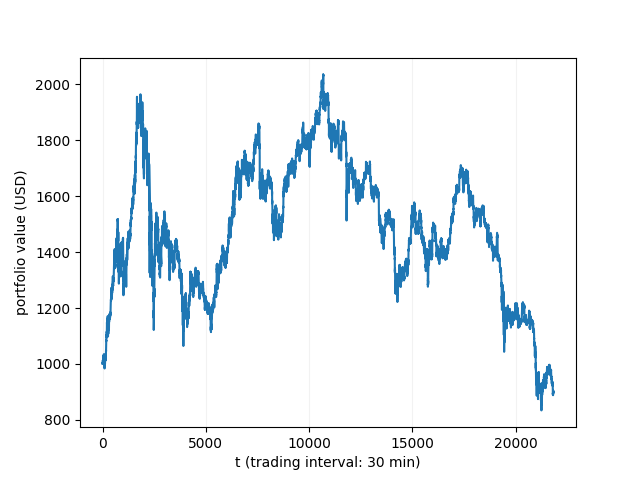
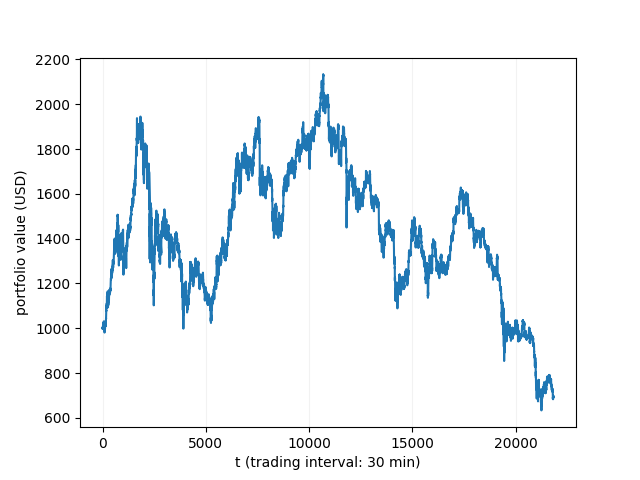
Updated training script

diff --git a/src/DPG.py b/src/DPG.py
@@ -3,7 +3,7 @@ import numpy as np
 from src.network import NetworkCNN
 import matplotlib.pyplot as plt
 
-
+# device = torch.device('cuda' if torch.cuda.is_available() else 'cpu')
 
 class DPG(object):
 	"""
@@ -22,7 +22,8 @@ class DPG(object):
 
 		self.pvm = PVM(self.total_timeStep, self.coin_num) # Replay buffer
 		self.NNmodel = NetworkCNN(feature_number=self.feature_num, num_currencies=self.coin_num, window_size=self.window_size )
-		self.NNmodel = self.NNmodel.to(torch.double) 
+		self.NNmodel = self.NNmodel.to(torch.double)
+		# self.NNmodel = self.NNmodel.to(device)
 		self.optimizer = torch.optim.Adam(self.NNmodel.parameters())
 
 		self.beta = config["hyperparams"]["beta"] # = probability-decaying rate determining the shape of the probability distribution for sampling tb for training NN
@@ -45,9 +46,11 @@ class DPG(object):
 
 			# Because X size is window_size --> 50
 			if t >= self.window_size:
+				self.NNmodel.eval()
 				# Get a batch price data at time step t, take portfolio vector from replay buffer, and do forward pass
 				X = self.get_X(t)
 				w = self.pvm.get_previous_w(t)
+				# X, w = X.to(device), w.to(device)
 				
 				w_out = self.take_action(X, w[:, 1:, :]) # w.shape: (1, currency, 1). Excluding cash currency
 
@@ -62,10 +65,13 @@ class DPG(object):
 				self.store_cumPortVal(t)
 			
 			# Start training after ... time steps (after portvolio vector memory filled), and update neural network every ... time step freq
-			# if t >= self.config["hyperparams"]["train_start"] and t % self.config["hyperparams"]["train_freq"] == 0 :
-			# # Learning one step using batch of data from replay buffer.
-			#     train_batch = self.get_sample_batch(t)
-			#     self.update_step(train_batch)
+			if t >= self.config["hyperparams"]["train_start"] and t % self.config["hyperparams"]["train_freq"] == 0 :
+			# Learning one step using batch of data from replay buffer.
+				print("Training.... t={}".format(t))
+				train_batch = self.get_sample_batch(t)
+				loss = self.update_step(train_batch)
+				print("\tPortfolio value: .. , Loss: {}\n".format(loss))
+				# print("\tPortfolio value: {}, Loss: {}\n".format(self.portValues[t].sum(), loss))
 
 			# Finish training at these conditions
 			if t >= self.total_timeStep-1:
@@ -91,21 +97,20 @@ class DPG(object):
 
 	def update_mu_t(self, t):
 		# Equation (16) in the paper
-		# self.mu_t = self.commision_rate * np.sum(np.abs(self.pvm.memory[t] - self.pvm.memory[t-1]))
-		print(self.mu_t)
+		self.mu_t = 1.0 - self.commision_rate * np.sum(np.abs(self.pvm.memory[t] - self.pvm.memory[t-1]))
 
 	def calc_portValue(self, t):
 		return self.mu_t * self.Y[t] * self.pvm.get_previous_w(t).squeeze().detach().numpy()
 	
 	def store_cumPortVal(self, t):
 		"""
-		Calculate portfolio value at given step: sum of ( price of each asset times weight of each asset)
+		Calculate portfolio value at given step: sum of (price of each asset times weight of each asset)
 		"""
 		if self.portValues is None:
 			self.portValues = np.insert(np.zeros(self.coin_num), 0, self.p_0)
 			self.portValues = np.expand_dims(self.portValues, axis=0)
 
-		# Equation (11) in paper
+		# Equation (11) in the paper
 		cum_portVal = self.portValues[-1].sum() * self.calc_portValue(t)
 		self.portValues = np.vstack((self.portValues, cum_portVal))
 		
@@ -121,10 +126,15 @@ class DPG(object):
 		One neural network training update step.
 		Use sample batch.
 		"""
+		self.NNmodel.train()
 		self.optimizer.zero_grad()
+
+		# Gradient ascent, equation (25)
 		loss = self.calc_loss(train_batch) * -1
 		loss.backward()
 		self.optimizer.step()
+
+		return loss
 
 	def calc_loss(self, train_batch):
 		"""
@@ -132,14 +142,19 @@ class DPG(object):
 		Use batch (take from self.get_batch())
 		"""
 		X, prev_w, tb = train_batch
-		w_out = self.take_action(X, prev_w)
+		
+		w_out = self.take_action(X, prev_w[:, 1:, :])
 
+		Y_tb = torch.tensor(self.Y[tb].astype(np.float64))
+
+		# import pdb; pdb.set_trace()
+
+		# Equation (10)&(21) in the paper; Note: r_t = ln(mu_t * y_{t+1} * w_{t})
 		tb = tb + 1
+		loss = torch.sum(torch.log(self.mu_t * Y_tb * w_out.squeeze())) # Squeeze because w_out.shape: (batch, currency, 1)
 
+		return loss
 
-		# Calculate the loss
-
-		pass
 
 	def tb_sampling(self, t):
 		def geometricDist(tb, beta):
@@ -148,7 +163,6 @@ class DPG(object):
 		
 		# PMF of geometric distribution, reversed
 		distribution = geometricDist(np.arange(t-self.window_size), self.beta)[::-1]
-		# import pdb; pdb.set_trace()
 
 		return np.random.choice(t-self.window_size, self.Nb, p=distribution, replace=False)
 
@@ -221,5 +235,3 @@ class PVM():
 		w = np.expand_dims(w, axis=-1)
 		w = torch.from_numpy(w)
 		return w
-
-	
